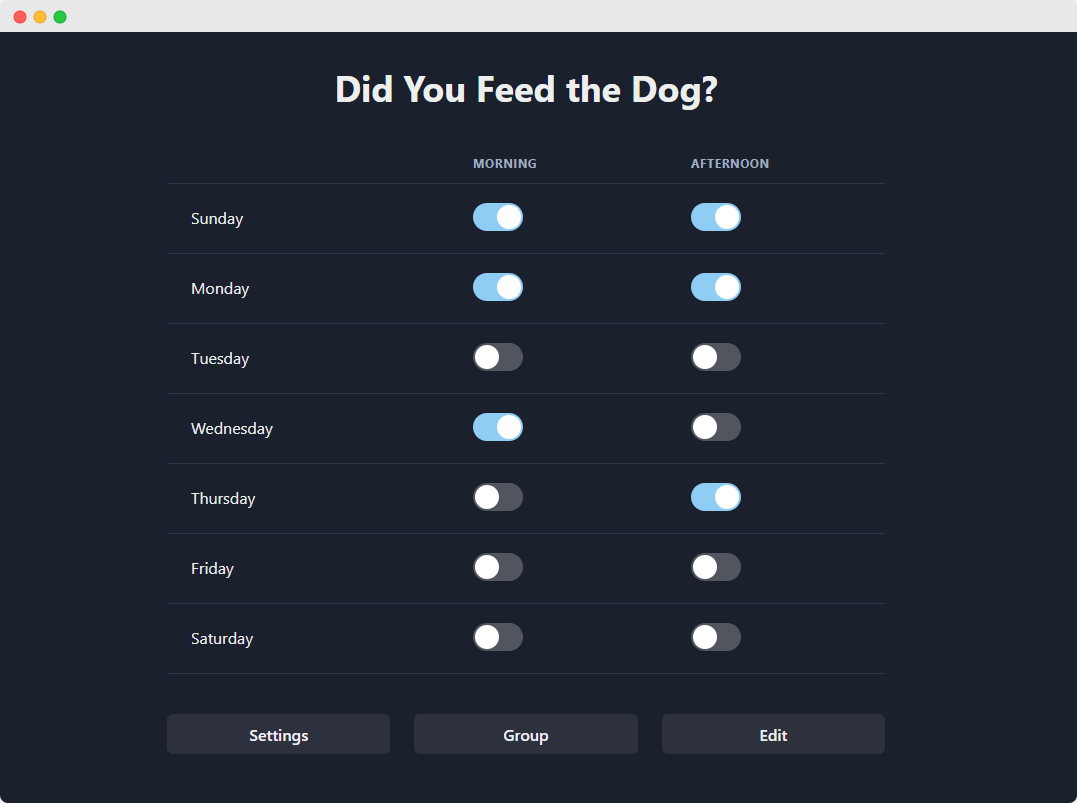
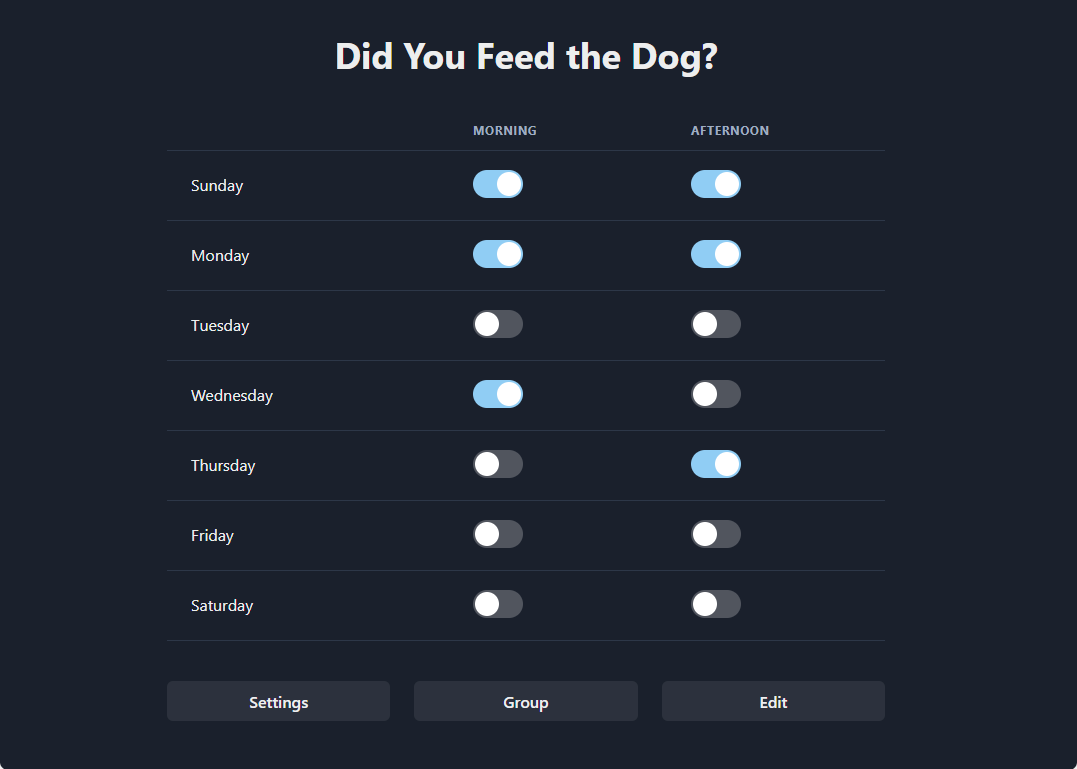
Convert static browser bar demo to component

diff --git a/pages/projects.js b/pages/projects.js
@@ -1,6 +1,6 @@
 import Head from "next/head";
 import Image from "next/image";
-import { Box, Heading, Text, Badge } from "@chakra-ui/react";
+import { Box, Heading, Text, Badge, Flex } from "@chakra-ui/react";
 import Title from "../components/Title";
 
 const projects = [
@@ -13,7 +13,7 @@ const projects = [
     image: {
       src: "/statboard.png",
       width: "1050px",
-      height: "705px",
+      height: "669px",
     },
     story:
       "I built this application to boost my productivity and gain insight into my goals. I wanted a way to track how well I was doing over time, and learn some useful technologies along the way.",
@@ -27,7 +27,7 @@ const projects = [
     image: {
       src: "/feed.png",
       width: "1059px",
-      height: "931px",
+      height: "889px",
     },
     story:
       "This was my first TypeScript and Chakra UI experience. I learned a lot about both of these technologies through the creation of this project and its features. In order to create a truly customizable feed, I had to become efficient at consuming APIs. While creating the infinite scrolling feature, I learned about optimizing components for performance and compatibility.",
@@ -41,7 +41,7 @@ const projects = [
     image: {
       src: "/dyftd.png",
       width: "1077px",
-      height: "803px",
+      height: "769px",
     },
     story:
       "My first experience with the MERN(T) Stack. User Experience was my main goal in mind, so I  made the application as smooth as possible with clean animations and consistency. After getting one of my MongoDB certificates, I reimplemented and restructured the backend for scalability. This project was originially built with Create React App (Express + Node), but was migrated to Next.js (Serverless).",
@@ -64,6 +64,43 @@ const projects = [
     tech: ["Node.js", "Express.js", "Puppeteer", "Discord.js"],
   },
 ];
+
+const ProjectImage = ({ project }) => {
+  return (
+    <Box
+      my="30px"
+      cursor="pointer"
+      _hover={{ transform: "scale(1.03)" }}
+      transition={"all 250ms"}
+    >
+      {project.image && (
+        <>
+          <Flex bgColor="#e8e8e8" h="30px" align="center" px="12px">
+            {["#ff5f56", "#febc2f", "#28c93f"].map((color) => (
+              <Box
+                key={color}
+                bgColor={color}
+                borderRadius="999px"
+                h="12px"
+                w="12px"
+                mr="6px"
+              ></Box>
+            ))}
+          </Flex>
+          <a href={project.url} target="_blank" rel="noopener noreferrer">
+            <Image
+              src={project.image.src}
+              alt={`${project.title} demo`}
+              width={project.image.width}
+              height={project.image.height}
+              quality={100}
+            />
+          </a>
+        </>
+      )}
+    </Box>
+  );
+};
 
 export default function Projects() {
   return (
@@ -97,24 +134,8 @@ export default function Projects() {
               ))}
             </Text>
 
-            <Box
-              my="30px"
-              cursor="pointer"
-              _hover={{ transform: "scale(1.03)" }}
-              transition={"all 250ms"}
-            >
-              {project.image && (
-                <a href={project.url} target="_blank" rel="noopener noreferrer">
-                  <Image
-                    src={project.image.src}
-                    alt={`${project.title} demo`}
-                    width={project.image.width}
-                    height={project.image.height}
-                    quality={100}
-                  />
-                </a>
-              )}
-            </Box>
+            <ProjectImage project={project} />
+
             <Text>{project.story}</Text>
           </Box>
         ))}
